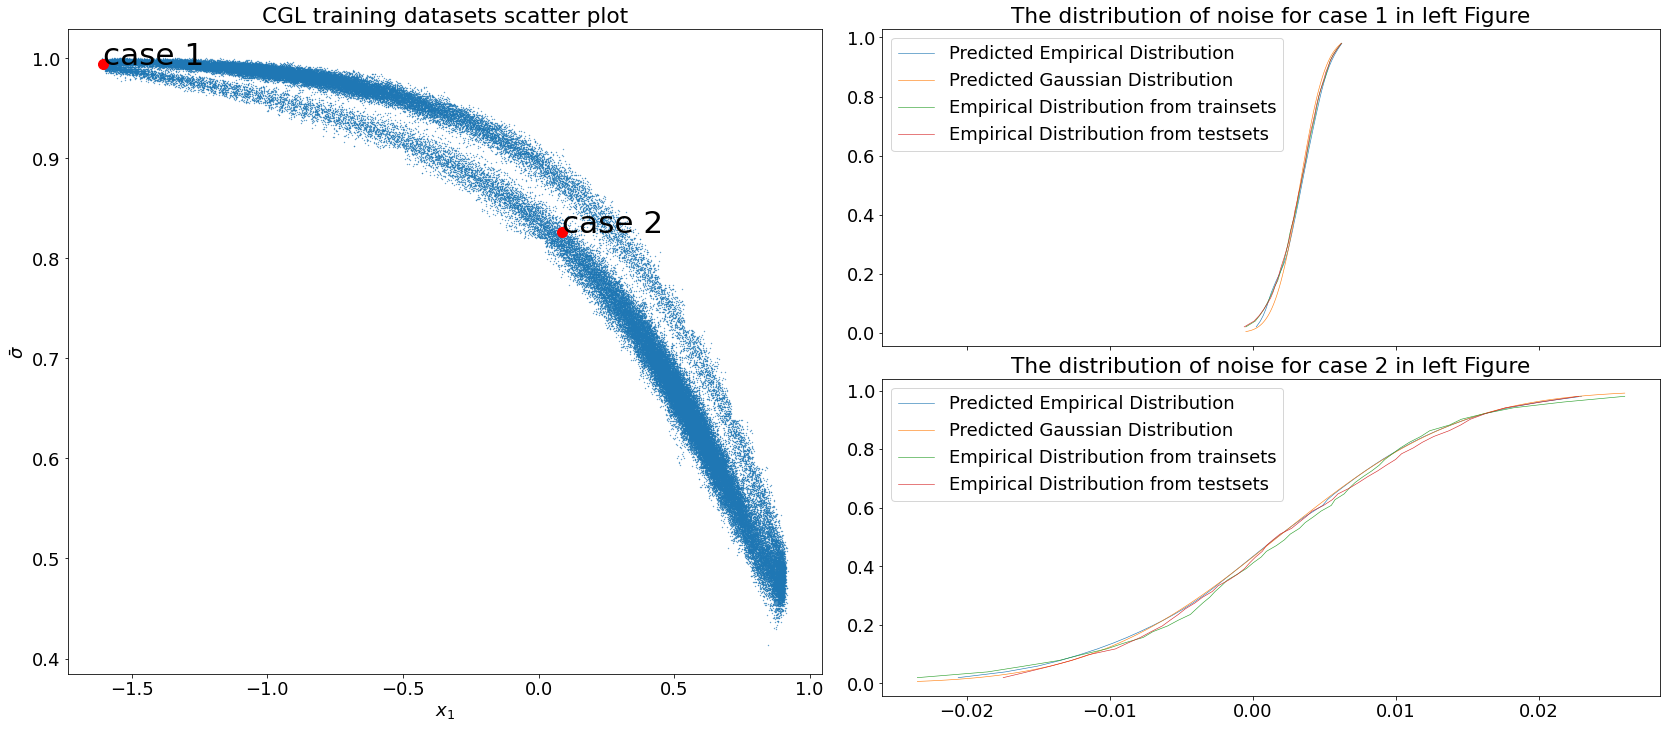
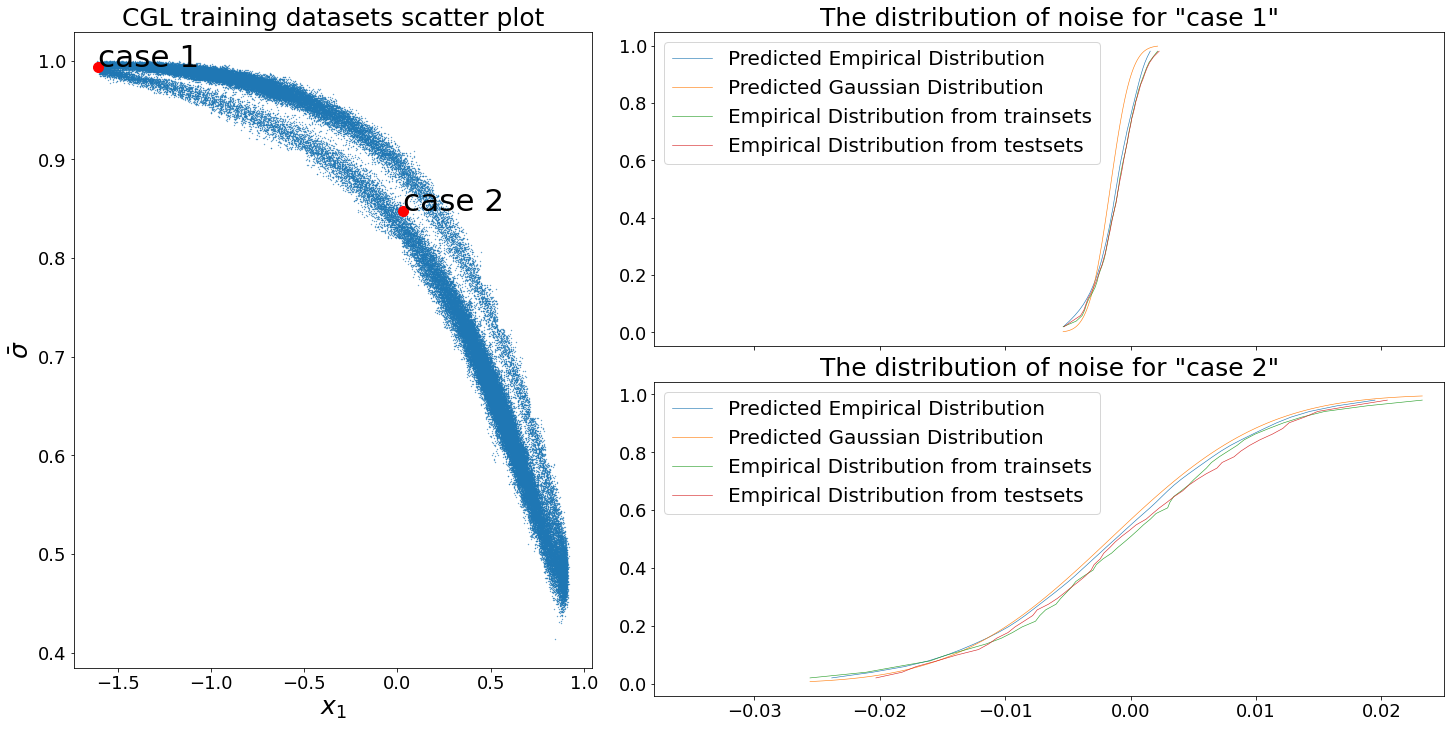
f

diff --git a/Example_Saddle/plots_Saddle.py b/Example_Saddle/plots_Saddle.py
@@ -245,7 +245,7 @@ def plot_result_K_H(obs, eps, eps_out, model_H):
 def compare_distribution_rare_ordinary_case(obs, eps, eps_out, model_H, cond_dist_test, x_inter, s_inter):
     fig = plt.figure(constrained_layout=True, figsize=(20, 10))
     
-    subfigs = fig.subfigures(1, 2)
+    subfigs = fig.subfigures(1, 2, width_ratios=[1, 1.4])
     axsLeft = subfigs[0].subplots(1, 1, sharey=True)
     axsRight = subfigs[1].subplots(2, 1, sharex=True)
     
@@ -258,13 +258,13 @@ def compare_distribution_rare_ordinary_case(obs, eps, eps_out, model_H, cond_dis
     axsLeft.scatter(x1_,s1_, s=.1)
     axsLeft.scatter(case_rare[0,0], case_rare[0,-1], marker="o", s=100, c='r')
     # axsLeft.annotate('rare case',  xy=(case_rare[0,0], case_rare[0,-1]))
-    axsLeft.text(case_rare[0,0], case_rare[0,-1], s='rare case', fontsize='xx-large')
+    axsLeft.text(case_rare[0,0], case_rare[0,-1], s='rare event', fontsize='xx-large')
     axsLeft.scatter(case_ordinary[0,0], case_ordinary[0,-1], marker="o", s=100, c='r')
     # axsLeft.annotate('ordinary case',  xy=(case_ordinary[0,0], case_ordinary[0,-1]))
-    axsLeft.text(case_ordinary[0,0], case_ordinary[0,-1], s='ordinary case', fontsize='xx-large')
-    axsLeft.set_title('Saddle training datasets scatter plot')
-    axsLeft.set_xlabel('x')
-    axsLeft.set_ylabel(r'$\bar{\sigma}$')
+    axsLeft.text(case_ordinary[0,0], case_ordinary[0,-1], s='ordinary event', fontsize='xx-large')
+    axsLeft.set_title('Saddle training datasets scatter plot', fontsize=25)
+    axsLeft.set_xlabel('x', fontsize=25)
+    axsLeft.set_ylabel(r'$\bar{\sigma}$', fontsize=25)
     
     ##############################
     ### rare case distribution ###
@@ -288,8 +288,8 @@ def compare_distribution_rare_ordinary_case(obs, eps, eps_out, model_H, cond_dis
     j = (case_rare[0,-1]>s_inter).sum()-1
     axsRight[0].plot(cond_dist_test[i,j,:], unif, label='Empirical Distribution from testsets')
     
-    axsRight[0].legend(loc='upper left')
-    axsRight[0].set_title('The distribution of noise for rare case in left Figure')
+    axsRight[0].legend(loc='upper left', fontsize=20)
+    axsRight[0].set_title('The distribution of noise for "rare event"', fontsize=25)
     
     ##################################
     ### ordinary case distribution ###
@@ -312,9 +312,8 @@ def compare_distribution_rare_ordinary_case(obs, eps, eps_out, model_H, cond_dis
     i = (case_ordinary[0,0]>x_inter).sum()-1
     j = (case_ordinary[0,-1]>s_inter).sum()-1
     axsRight[1].plot(cond_dist_test[i,j,:], unif, label='Empirical Distribution from testsets')
-    
-    axsRight[1].legend(loc='upper left')
-    axsRight[1].set_title('The distribution of noise for ordinary case in left Figure')
+    axsRight[1].legend(loc='upper left', fontsize=20)
+    axsRight[1].set_title('The distribution of noise for "ordinary event"', fontsize=25)
     
     fig.savefig('./figures/Saddle_rare_ordinary_case.png', bbox_inches='tight')
 
@@ -438,7 +437,7 @@ if __name__=="__main__":
     bins_x, bins_s, bins_u = params.bins_x, params.bins_s, params.bins_u
     x_inter_, s_inter_ = get_inter_grid(x1[:,0], s1[:,0], bins_x, bins_s)
     dist_test, cond_dist_test, cond_std_test, cond_mean_test, idx_used_test, unif_test = \
-        get_cond_noise(eps_test, x1_test, s1_test, x_inter, s_inter, shape=[bins_x, bins_s, bins_u], n=100)
+        get_cond_noise(eps_test, x1_test, s1_test, x_inter_, s_inter_, shape=[bins_x, bins_s, bins_u], n=100)
     
     compare_distribution_rare_ordinary_case(obs_K, eps, eps_out, model_H, cond_dist_test, x_inter_, s_inter_)
     

diff --git a/Example_Hopf/plot_CGL.py b/Example_Hopf/plot_CGL.py
@@ -94,9 +94,9 @@ def plot_result_K(obs, eps, eps_out):
 
 
 def compare_distribution_rare_ordinary_case(obs, eps, eps_out, model_H, cond_dist_test, x_inter, s_inter):
-    fig = plt.figure(constrained_layout=True, figsize=(23, 10))
+    fig = plt.figure(constrained_layout=True, figsize=(20, 10))
     
-    subfigs = fig.subfigures(1, 2)
+    subfigs = fig.subfigures(1, 2, width_ratios=[1, 1.4])
     axsLeft = subfigs[0].subplots(1, 1, sharey=True)
     axsRight = subfigs[1].subplots(2, 1, sharex=True)
     
@@ -113,9 +113,9 @@ def compare_distribution_rare_ordinary_case(obs, eps, eps_out, model_H, cond_dis
     axsLeft.scatter(case_ordinary[0,0], case_ordinary[0,-1], marker="o", s=100, c='r')
     # axsLeft.annotate('ordinary case',  xy=(case_ordinary[0,0], case_ordinary[0,-1]))
     axsLeft.text(case_ordinary[0,0], case_ordinary[0,-1], s='case 2', fontsize='xx-large')
-    axsLeft.set_title('CGL training datasets scatter plot')
-    axsLeft.set_xlabel('$x_1$')
-    axsLeft.set_ylabel(r'$\bar{\sigma}$')
+    axsLeft.set_title('CGL training datasets scatter plot', fontsize=25)
+    axsLeft.set_xlabel('$x_1$', fontsize=25)
+    axsLeft.set_ylabel(r'$\bar{\sigma}$', fontsize=25)
     
     ##############################
     ### rare case distribution ###
@@ -139,8 +139,8 @@ def compare_distribution_rare_ordinary_case(obs, eps, eps_out, model_H, cond_dis
     j = (case_rare[0,-1]>s_inter).sum()-1
     axsRight[0].plot(cond_dist_test[i,j,:], unif, label='Empirical Distribution from testsets')
     
-    axsRight[0].legend(loc='upper left')
-    axsRight[0].set_title('The distribution of noise for case 1 in left Figure')
+    axsRight[0].legend(loc='upper left', fontsize=20)
+    axsRight[0].set_title('The distribution of noise for "case 1"', fontsize=25)
     
     ##################################
     ### ordinary case distribution ###
@@ -163,9 +163,9 @@ def compare_distribution_rare_ordinary_case(obs, eps, eps_out, model_H, cond_dis
     i = (case_ordinary[0,0]>x_inter).sum()-1
     j = (case_ordinary[0,-1]>s_inter).sum()-1
     axsRight[1].plot(cond_dist_test[i,j,:], unif, label='Empirical Distribution from testsets')
-    
-    axsRight[1].legend(loc='upper left')
-    axsRight[1].set_title('The distribution of noise for case 2 in left Figure')
+    axsRight[1].set_xlim(-0.038,0.025)
+    axsRight[1].legend(loc='upper left', fontsize=20)
+    axsRight[1].set_title('The distribution of noise for "case 2"', fontsize=25)
     
     fig.savefig('./figures/CGL_rare_ordinary_case.png', bbox_inches='tight')
 
@@ -279,9 +279,9 @@ if __name__=="__main__":
     eps_test = (s2_test - (s1_test + numerical[:,[-1]]*dt_s_test))/dt_s_test**.5
     
     bins_x, bins_s, bins_u = params.bins_x, params.bins_s, params.bins_u
-    x_inter, s_inter = get_inter_grid(x1[:,0], s1[:,0], bins_x, bins_s)
+    x_inter_, s_inter_ = get_inter_grid(x1[:,0], s1[:,0], bins_x, bins_s)
     dist_test, cond_dist_test, cond_std_test, cond_mean_test, idx_used_test, unif_test = \
-        get_cond_noise(eps_test, x1_test, s1_test, x_inter, s_inter, shape=[bins_x, bins_s, bins_u], n=100)
+        get_cond_noise(eps_test, x1_test, s1_test, x_inter_, s_inter_, shape=[bins_x, bins_s, bins_u], n=100)
     
     
-    compare_distribution_rare_ordinary_case(obs_K, eps, eps_out, model_H, cond_dist_test, x_inter, s_inter)
+    compare_distribution_rare_ordinary_case(obs_K, eps, eps_out, model_H, cond_dist_test, x_inter_, s_inter_)
